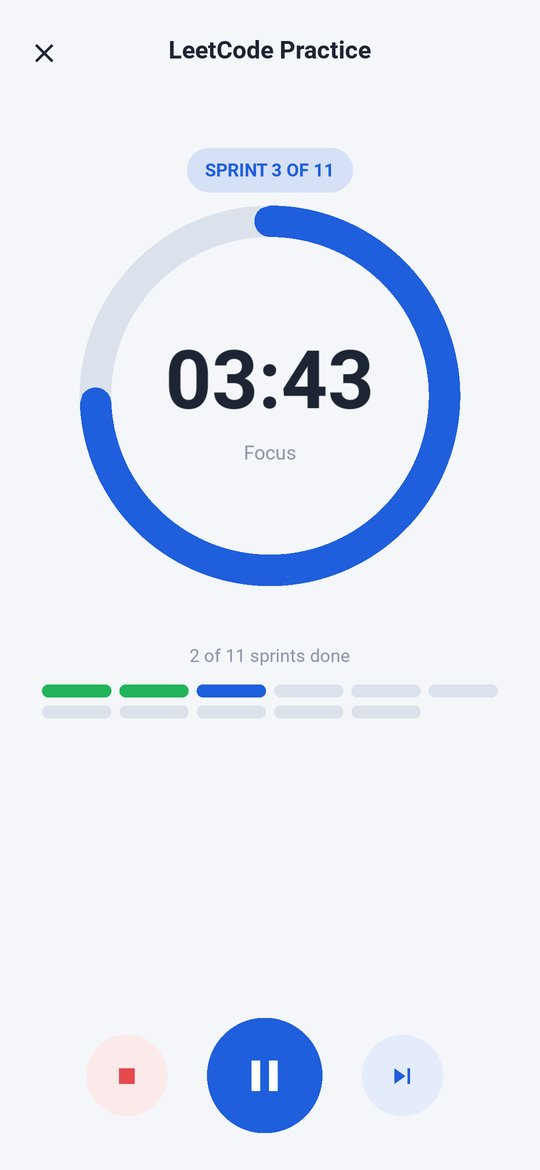
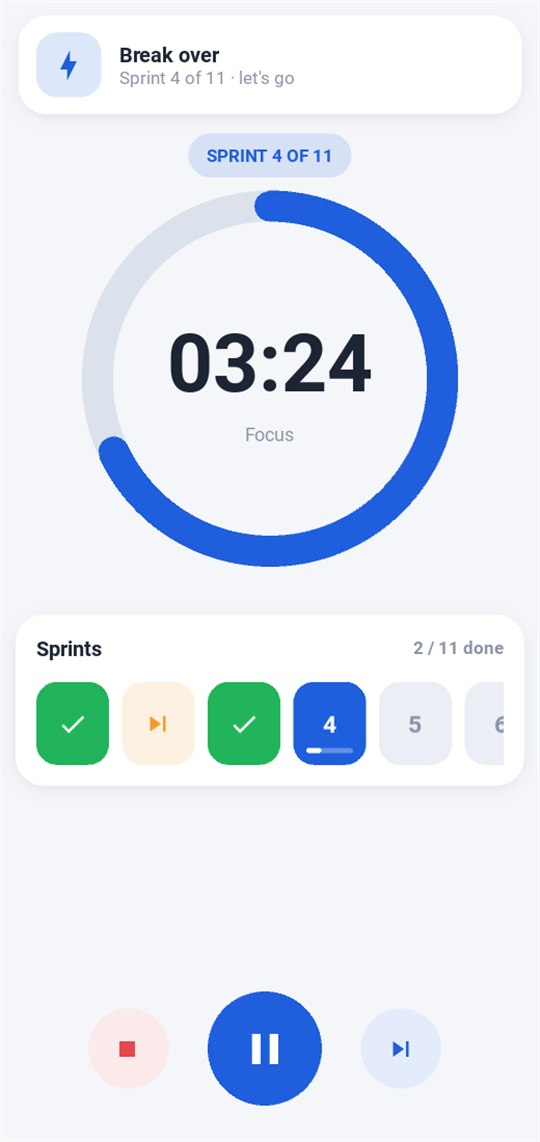
Update README with sprint tiles, notifications and new timer screenshots

diff --git a/README.md b/README.md
@@ -23,6 +23,7 @@ The core engine and UI have been successfully compiled into a standalone Android
 
 <p align="center">
   <img src="screenshots/home_dark.jpg" width="200" />
+  <img src="screenshots/timer_dark.jpg" width="200" />
   <img src="screenshots/stats_dark.jpg" width="200" />
   <img src="screenshots/settings_dark.jpg" width="200" />
 </p>
@@ -32,12 +33,12 @@ The core engine and UI have been successfully compiled into a standalone Android
 - ✅ **Customizable Time Blocks** - Set your own work duration (e.g., 5 min per coding problem)
 - ✅ **Smart Break System** - Automatic breaks between work blocks (e.g., 10 sec rest)
 - ✅ **Reusable Templates** - Save timer configurations and reuse them daily
-- ✅ **Visual Progress** - Progress ring plus pill bars for completed/active/pending sprints
+- ✅ **Visual Progress** - Progress ring plus a swipeable row of sprint tiles (done, skipped, current, upcoming)
 - ✅ **Ready-made Templates** - Coding, Pomodoro, exam practice, workouts, reading and more
 - ✅ **Stats & Streaks** - Focus time, sprints done, daily streaks and recent sessions
 - ✅ **Light, Dark & System Themes** - Plus five accent colours
 - ✅ **Gentle Chimes + Notifications** - Short original chimes for sprint done, break over and session complete, with an in-app banner, an Android notification and vibration (sound and vibration can be turned off)
-- ✅ **Accurate Background Timing** - Uses the real clock, so it catches up after the app was in the background
+- ✅ **Accurate Timing** - Uses the real clock, so the countdown is correct again as soon as you return to the app
 
 ## 🎯 Use Case Example
 
@@ -73,6 +74,7 @@ The core engine and UI have been successfully compiled into a standalone Android
 - `SessionLog` - Session history, stats and streaks
 - `Settings` - Theme, accent colour, sound and vibration preferences
 - `Theme` - Light/dark colour palettes used by every widget
+- `Alerts` - Chimes and Android notifications when a sprint, break or session ends
 - `HomeScreen`, `ExploreScreen`, `CreateTaskScreen`, `TimerScreen`, `StatsScreen`, `SettingsScreen` - UI screens
 
 ## 📲 Installation
@@ -121,10 +123,11 @@ Sprint Runner is actively developed. Upcoming versions will introduce AI agent f
 
 ### Planned Features
 
-- [ ] **Background Service** - Timer continues when app is minimized or screen is off
+- [ ] **Background Service** - Timer and chimes keep running when the app is minimized or the screen is off
 - [x] **Enhanced UI** - Display session stats (blocks completed, remaining time)
 - [x] **Statistics Dashboard** - Track productivity over time
-- [ ] **Notification Support** - Show timer updates in notification bar
+- [x] **Block-complete Notifications** - Chime, banner and Android notification when a sprint, break or session ends
+- [ ] **Live Notification** - Countdown shown in the notification bar
 - [x] **Dark/Light Themes** - Customizable color schemes
 - [ ] **Export/Import** - Share timer configs with others
 - [ ] **Voice Command Support** - Control sprints and timers hands-free using voice input
@@ -161,13 +164,16 @@ Sprint Runner is actively developed. Upcoming versions will introduce AI agent f
 - Live preview of how many sprints fit, with clear error messages
 
 **Timer:**
-- Progress ring and big countdown, sprint counter, pill progress bar
-  (green = done, accent = current, grey = pending)
+- Progress ring and big countdown with the current phase (Sprint 4 of 11 / Break)
+- Sprints card: numbered tiles that scroll to the current sprint
+  (green ✓ = done, orange = skipped, accent with progress bar = current, grey = upcoming)
+- When a block ends: a short chime, a notification banner ("Sprint 3 of 11 done · Take a 10s break"),
+  vibration and an Android notification; a separate chime and dialog when the whole session is complete
 - Play/Pause, Skip and Stop (asks before ending; progress is still saved)
 
 **Stats:** focus time, sprints done, sessions finished and streaks for today / this week / all time, plus recent sessions
 
-**Settings:** Light / Dark / System theme, accent colour, alarm sound and vibration
+**Settings:** Light / Dark / System theme, accent colour, chime sound and vibration on/off
 
 ## 🤝 Contributing
 
